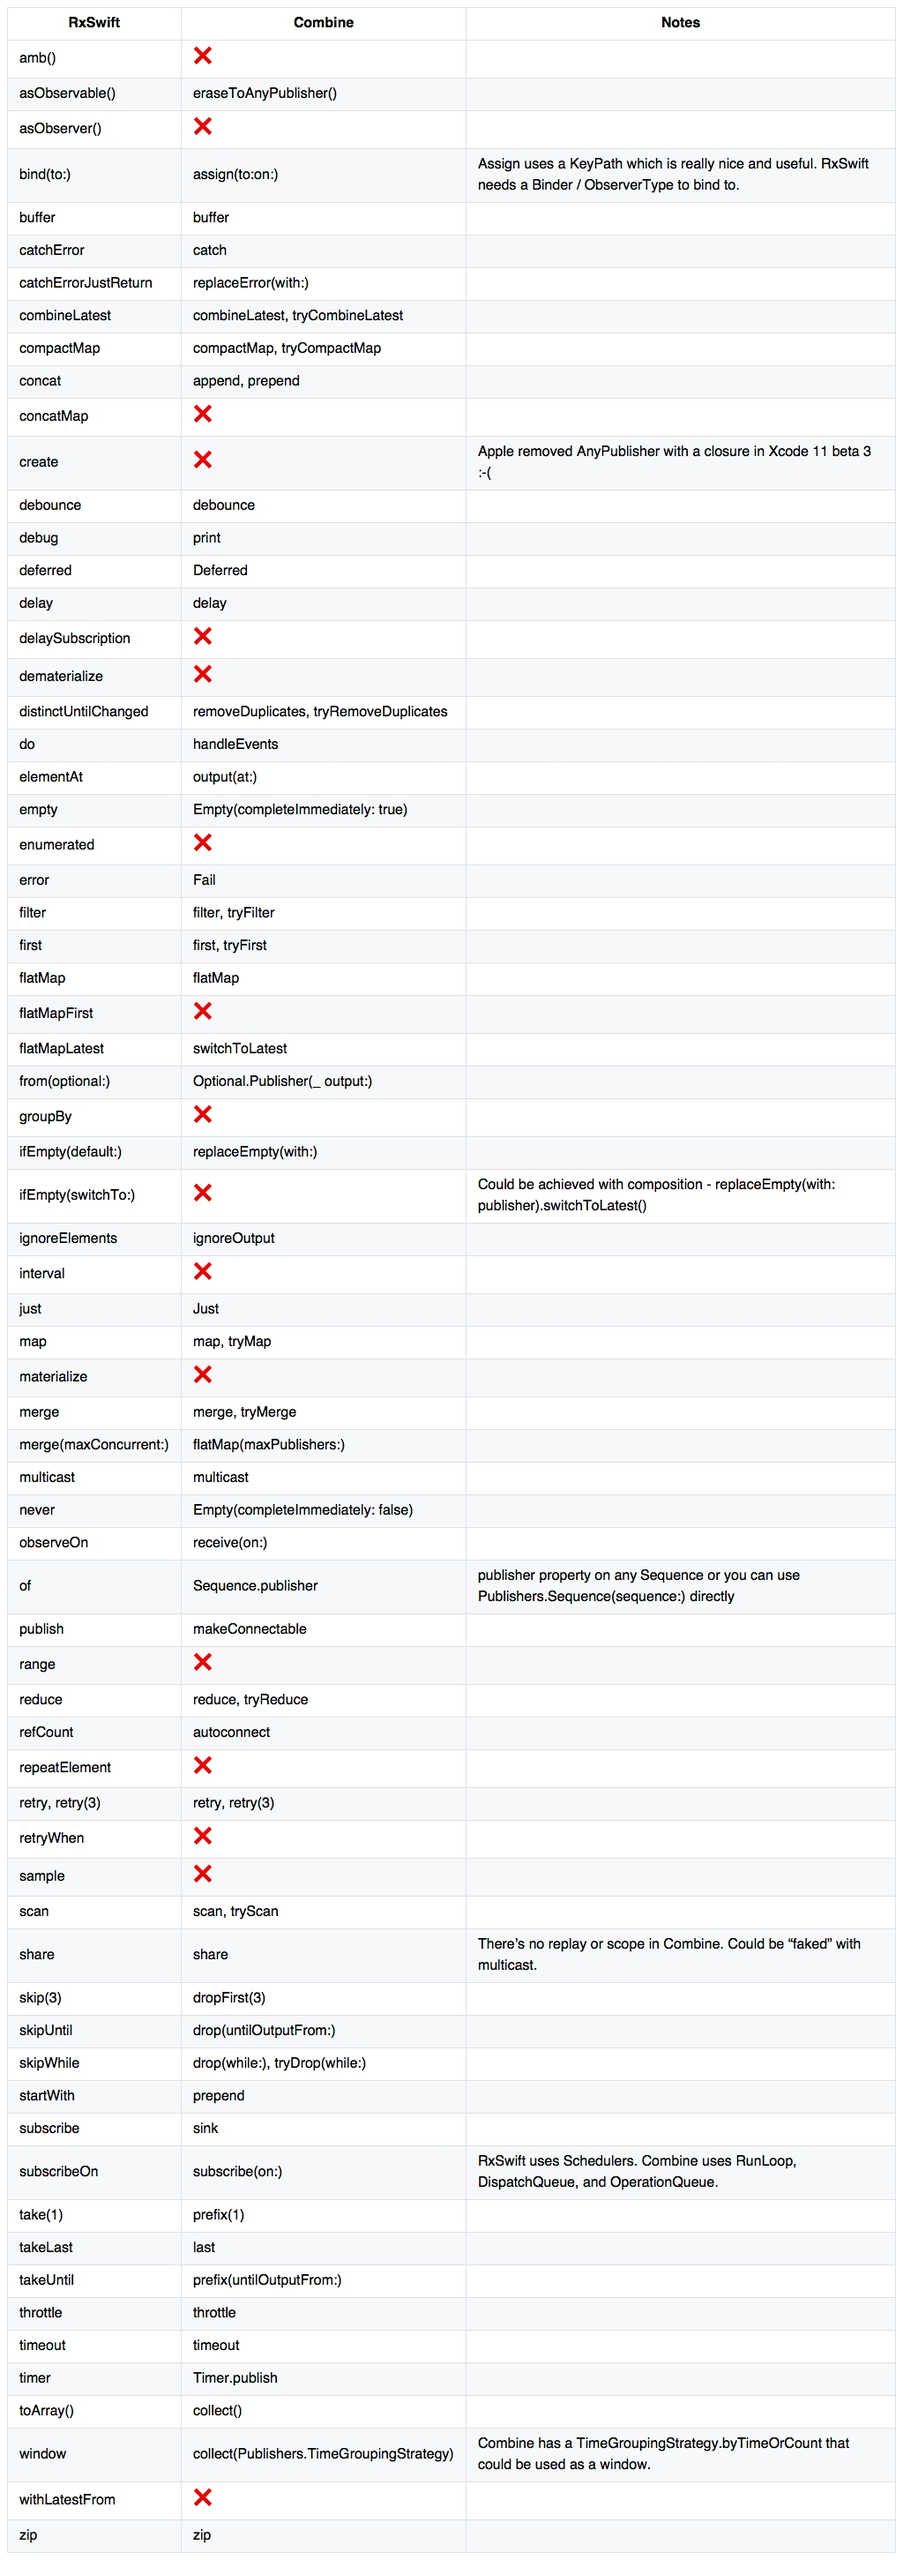
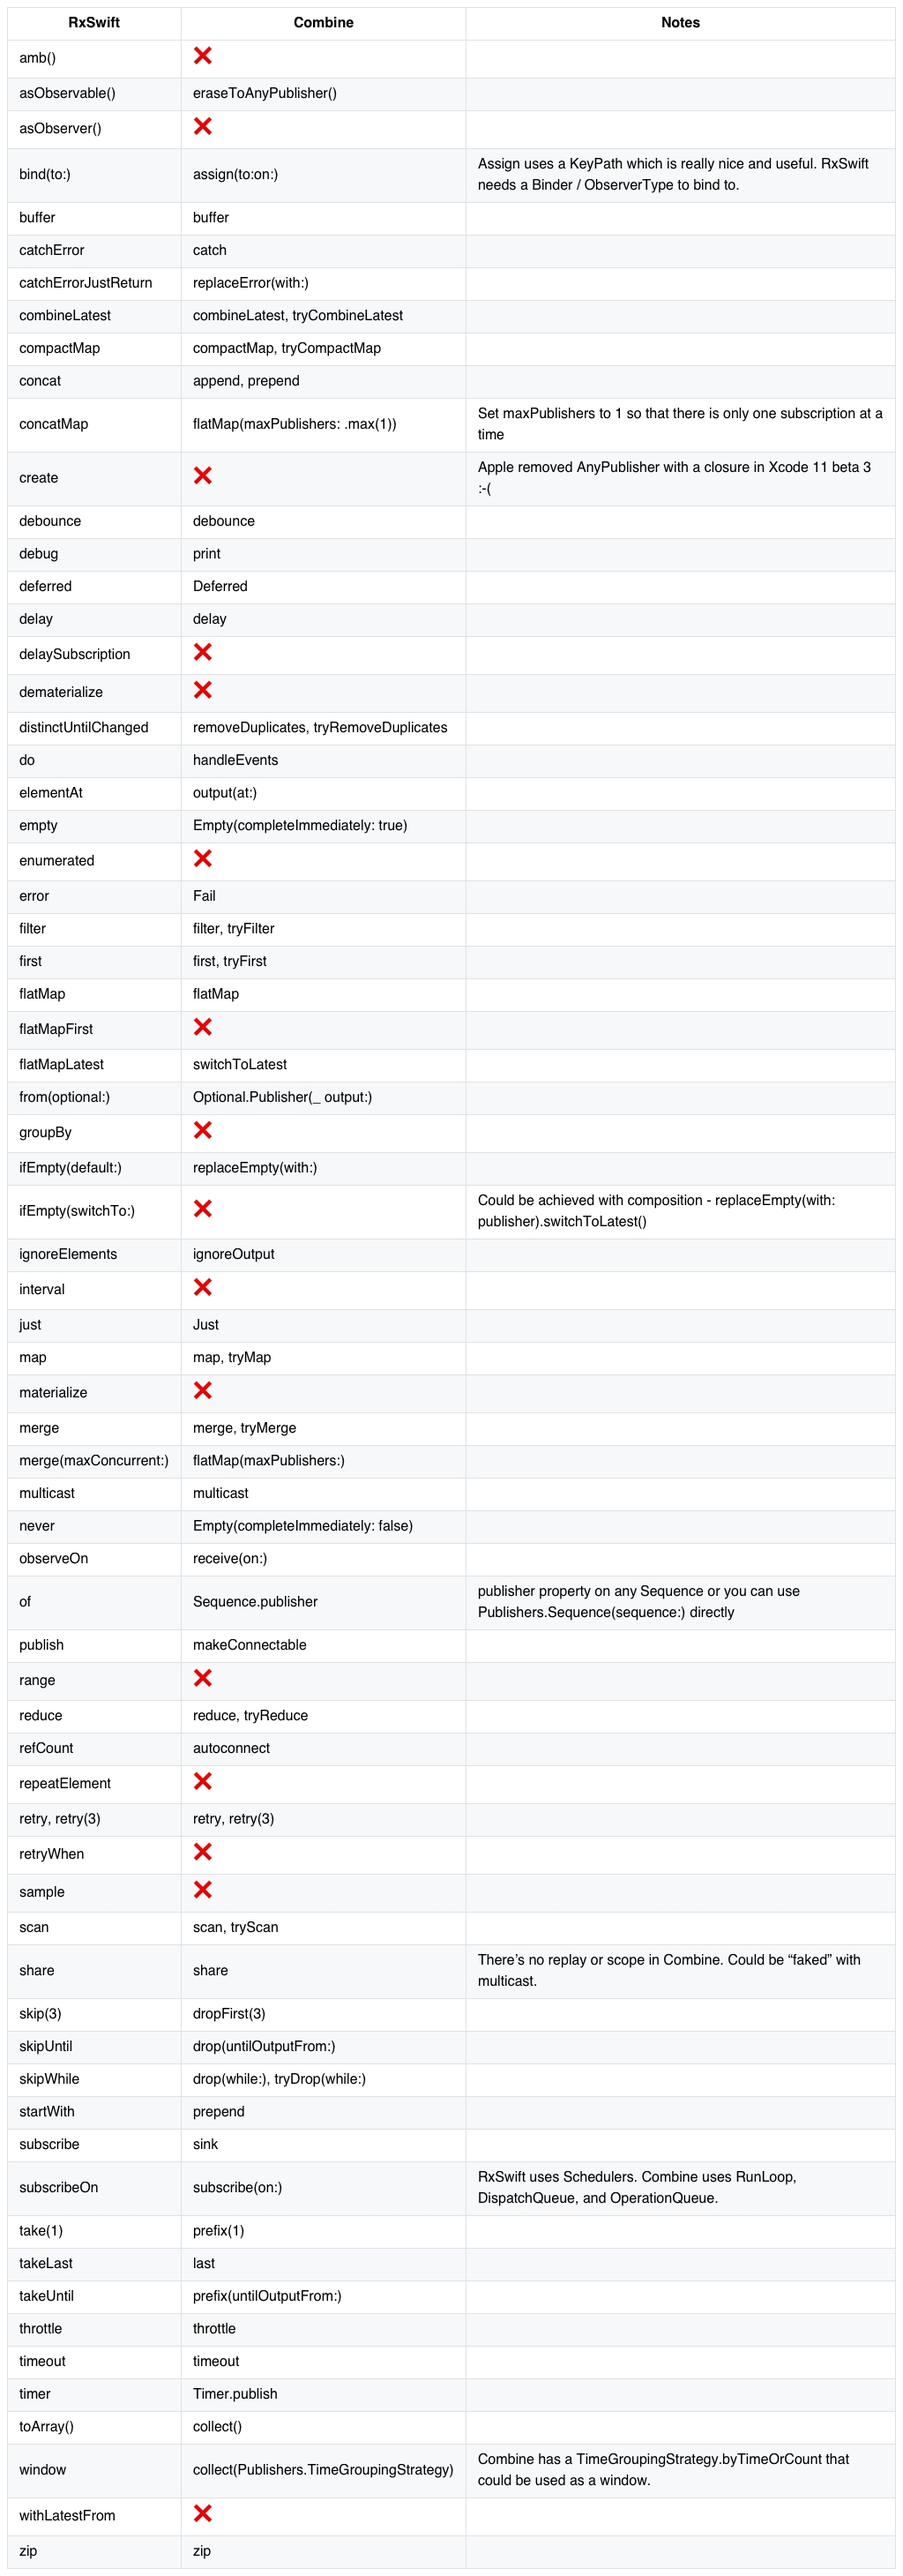
Add the equivalent of concatMap

diff --git a/README.md b/README.md
@@ -57,7 +57,7 @@ It's based on the following blog post: [https://medium.com/gett-engineering/rxsw
 | combineLatest         | combineLatest, tryCombineLatest          |                                                                                                          |
 | compactMap            | compactMap, tryCompactMap                |                                                                                                          |
 | concat                | append, prepend                          |                                                                                                          |
-| concatMap             | ❌                                        |                                                                                                          |
+| concatMap             | flatMap(maxPublishers: .max(1))          |  Set maxPublishers to 1 so that there is only one subscription at a time                                 |
 | create                | ❌                                        | Apple removed AnyPublisher with a closure in Xcode 11 beta 3 :-(                                         |
 | debounce              | debounce                                 |                                                                                                          |
 | debug                 | print                                    |                                                                                                          |
